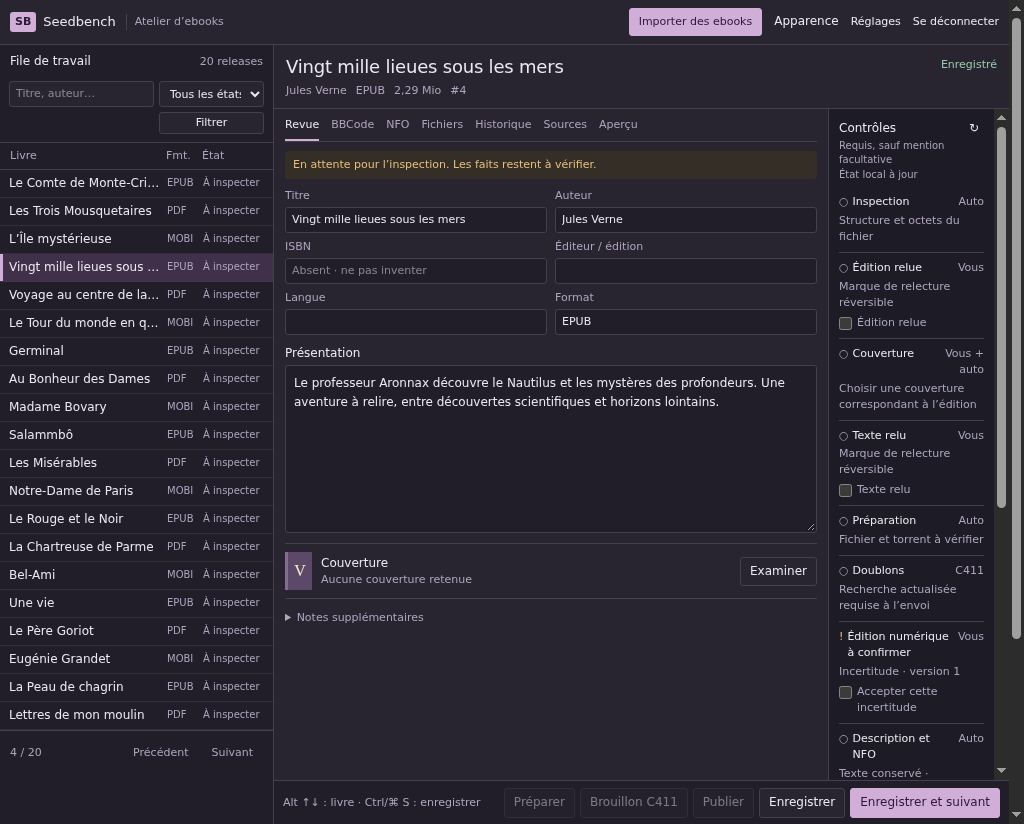
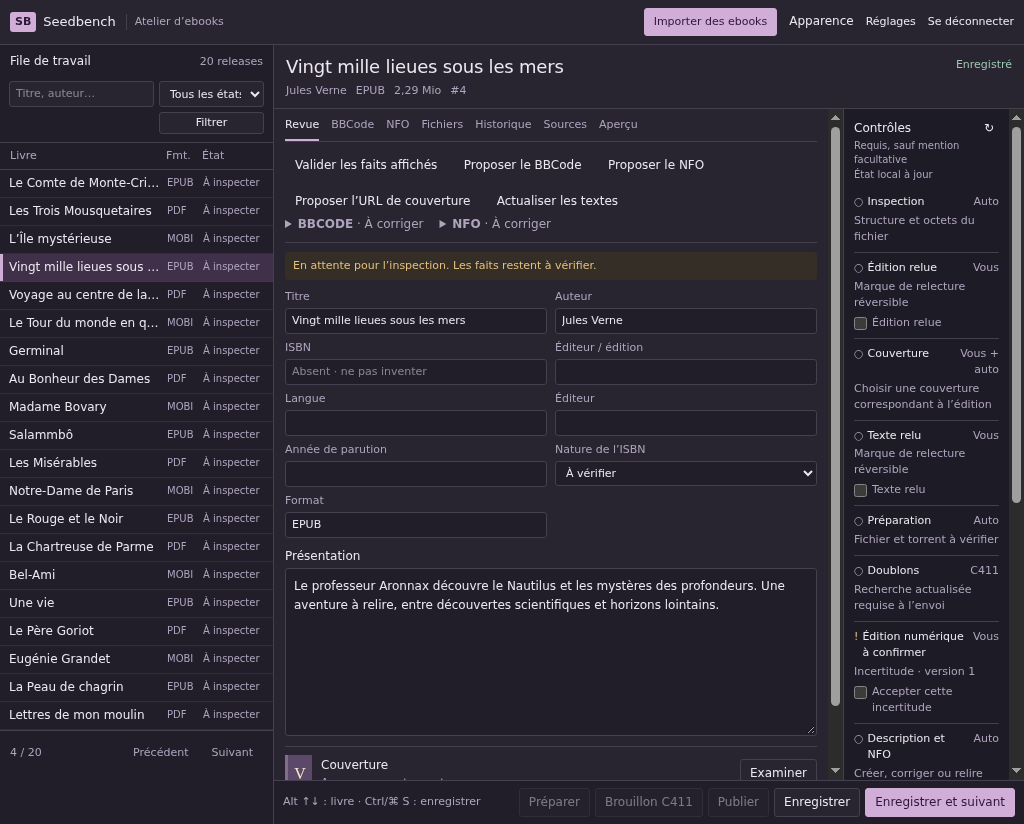
test: verify ebook content review and persistence

diff --git a/app/assets/stylesheets/application.css b/app/assets/stylesheets/application.css
@@ -217,3 +217,12 @@ button:focus-visible, a:focus-visible, input:focus-visible, select:focus-visible
 .content-comparison { display: grid; grid-template-columns: repeat(2, minmax(0, 1fr)); gap: .75rem; }
 .content-comparison pre { padding: .5rem; background: var(--inset); max-height: 24rem; overflow: auto; white-space: pre-wrap; overflow-wrap: anywhere; font: 11px/1.5 ui-monospace, monospace; }
 @media (max-width: 650px) { .content-comparison { grid-template-columns: 1fr; } }
+
+@media (min-width: 801px) {
+  body:has(#workbench) { height: 100dvh; display: flex; flex-direction: column; overflow: hidden; }
+  #workbench { flex: 1; min-height: 0; }
+  .work-layout { height: 100%; min-height: 0; }
+  .work-main, .release-workspace, .editor-area, .work-queue { min-height: 0; }
+  .editor-area, .work-queue { overflow-y: auto; }
+  .release-checklist { max-height: none; min-height: 0; }
+}

diff --git a/app/services/content/validation.rb b/app/services/content/validation.rb
@@ -3,6 +3,7 @@ require 'cgi'
 module Content
   class Validation
     Policy = Providers::C411::EbookContent
+    NFO_OPTIONAL = %w[publisher publication_year digital_isbn print_isbn edition pages documents release_name].freeze
     NFO_LABELS = %w[title author format language files size].freeze
 
     def self.call(bbcode:, nfo:, expected: {}, cover_url: nil)
@@ -47,16 +48,30 @@ module Content
     def validate_nfo
       return [ issue('nfo_size') ] if @nfo.bytesize > 3_000_000
 
-      NFO_LABELS.filter_map { |field| issue('nfo_field', field) unless valid_nfo_field?(field) }
+      fields = NFO_LABELS + NFO_OPTIONAL.select { |field| nfo_lines(field).any? || (%w[pages documents].include?(field) && @expected[field].present?) }
+      fields.filter_map { |field| issue('nfo_field', field) unless valid_nfo_field?(field) }
     end
 
     def valid_nfo_field?(field)
-      label = I18n.t("content.nfo.#{field}")
-      lines = @nfo.lines.grep(/\A#{Regexp.escape(label)} : /)
+      lines = nfo_lines(field)
       expected = @expected[field]
-      return false unless lines.one? && !lines.first.strip.in?([ "#{label} :", "#{label} : #{I18n.t('content.unknown')}" ])
+      return false unless expected_available?(field, expected) && nfo_value?(lines)
 
-      !expected || lines.first.strip == "#{label} : #{expected}"
+      !expected || lines.first == expected.to_s.gsub(/[\r\n]+/, ' ')
+    end
+
+    def expected_available?(field, expected)
+      NFO_LABELS.include?(field) || (expected.present? && expected != I18n.t('content.unknown'))
+    end
+
+    def nfo_value?(lines)
+      lines.one? && lines.first.present? && lines.first != I18n.t('content.unknown')
+    end
+
+    def nfo_lines(field)
+      labels = [ I18n.t("content.nfo.#{field}") ] + Array(I18n.t("content.nfo_aliases.#{field}", default: []))
+      pattern = /\A(?:#{Regexp.union(labels)}) : (.*)\z/
+      @nfo.lines.filter_map { |line| pattern.match(line.strip)&.captures&.first }
     end
 
     def issue(code, field = nil)

diff --git a/script/quality/runtime_content.rb b/script/quality/runtime_content.rb
@@ -1,0 +1,21 @@
+require 'digest'
+
+module RuntimeContent
+  def self.prepare(release)
+    release.reload
+    proposal = Content::Propose.call(release_id: release.id, expected_revision: release.input_revision, kind: 'bbcode')
+    path = Rails.application.config.x.storage.fetch(:scratch).join('runtime-content-proposal.json')
+    path.write(JSON.generate(id: proposal.id, sha256: Digest::SHA256.hexdigest(proposal.bodies.fetch('bbcode'))))
+  end
+
+  def self.verify(release)
+    path = Rails.application.config.x.storage.fetch(:scratch).join('runtime-content-proposal.json')
+    saved = JSON.parse(path.read)
+    proposal = release.content_proposals.find(saved.fetch('id'))
+    abort 'Content proposal changed across recreation' unless Digest::SHA256.hexdigest(proposal.bodies.fetch('bbcode')) == saved.fetch('sha256')
+    current = release.content_revisions.where(kind: 'bbcode').order(:number).last
+    abort 'An unaccepted proposal replaced human text' unless current.body == 'Preserved human content' && current.id == proposal.bases.fetch('bbcode')
+    abort 'Proposal lost its policy provenance' unless proposal.dependencies.dig('bbcode', 'policy_version') == Providers::C411::EbookContent::VERSION
+    puts 'Unaccepted content proposal, dependency provenance and full human text survived container recreation.'
+  end
+end

diff --git a/app/services/content/generate.rb b/app/services/content/generate.rb
@@ -15,11 +15,17 @@ module Content
     def call
       bodies = { 'bbcode' => Policy.assemble(values: description_values), 'nfo' => nfo }
       dependencies = bodies.keys.index_with { |kind| Dependencies.call(inputs: @inputs, values: @values, kind: kind) }
-      issues = Validation.call(bbcode: bodies['bbcode'], nfo: bodies['nfo'], expected: @values, cover_url: @inputs.hosting&.direct_url)
-      Draft.new(bodies: bodies, dependencies: dependencies, expected: @values, issues: issues + input_issues)
+      issues = Validation.call(bbcode: bodies['bbcode'], nfo: bodies['nfo'], expected: expected, cover_url: @inputs.hosting&.direct_url)
+      Draft.new(bodies: bodies, dependencies: dependencies, expected: expected, issues: issues + input_issues)
     end
 
     private
+
+    def expected
+      @values.merge('pages' => @inputs.structure['page_count'], 'documents' => @inputs.structure['spine_documents'],
+        'print_isbn' => @inputs.fact('isbn_kind') == 'print' ? @inputs.fact('isbn') : nil,
+        'release_name' => @inputs.prepared? ? @inputs.preparation.release_name : nil)
+    end
 
     def description_values
       @values.transform_values { |value| Policy.escape(value) }.merge('cover' => @inputs.hosting&.direct_url.to_s)

diff --git a/spec/services/content/validation_spec.rb b/spec/services/content/validation_spec.rb
@@ -32,4 +32,20 @@ RSpec.describe Content::Validation do
     expect(errors(bbcode: body.sub('Value presentation', '<script>alert(1)</script>'))).to include('unsafe_html')
     expect(errors(bbcode: body.sub('https://images.invalid/cover.png', 'https://other.invalid/cover.png'))).to include('cover')
   end
+
+  it 'rejects fabricated page counts and altered optional edition facts' do
+    expect(errors(nfo_body: nfo + "\nPages du PDF : 999")).to include('nfo_field')
+    expect(errors(nfo_body: nfo + "\nÉditeur : Wrong publisher")).to include('nfo_field')
+  end
+
+  it 'allows full manual presentation edits while preserving factual checks' do
+    expect(errors(bbcode: body.sub('Value presentation', 'Prose rédigée directement dans le BBCode.'))).to be_empty
+  end
+
+  it 'accepts the documented English NFO labels without weakening factual checks' do
+    english = nfo.sub('Titre :', 'Title :').sub('Auteur(s) :', 'Author / illustrator :').sub('Langue :', 'Language :')
+      .sub('Fichier(s) :', 'Content files :').sub('Taille :', 'Payload size :')
+    expect(errors(nfo_body: english)).to be_empty
+    expect(errors(nfo_body: english.sub('EPUB', 'PDF'))).to include('nfo_field')
+  end
 end

diff --git a/spec/models/content_proposal_spec.rb b/spec/models/content_proposal_spec.rb
@@ -1,0 +1,24 @@
+require 'rails_helper'
+
+RSpec.describe ContentProposal do
+  let(:release) { reviewed_content_release }
+  let(:proposal) { Content::Propose.call(release_id: release.id, expected_revision: release.input_revision, kind: 'bbcode') }
+
+  it 'retains immutable proposal bodies and dependency provenance' do
+    record = proposal
+    expect { record.bodies = {} }.to raise_error(ActiveRecord::ReadonlyAttributeError)
+    expect(record.reload.dependencies['bbcode']).to include('payload_revision_id' => release.payload_revisions.sole.id)
+  end
+
+  %w[UPDATE DELETE REPLACE].each do |action|
+    it "blocks direct #{action} of stored proposal history" do
+      record = proposal
+      sql = case action
+      when 'UPDATE' then "UPDATE content_proposals SET kind = 'cover' WHERE id = #{record.id}"
+      when 'DELETE' then "DELETE FROM content_proposals WHERE id = #{record.id}"
+      else "INSERT OR REPLACE INTO content_proposals SELECT * FROM content_proposals WHERE id = #{record.id}"
+      end
+      expect { ApplicationRecord.connection.execute(sql) }.to raise_error(ActiveRecord::StatementInvalid, /append-only/)
+    end
+  end
+end

diff --git a/spec/services/content/accept_spec.rb b/spec/services/content/accept_spec.rb
@@ -26,4 +26,12 @@ RSpec.describe Content::Accept do
     Releases::Save.call(release_id: release.id, expected_revision: release.input_revision, changes: { publisher: 'New publisher' })
     expect { described_class.call(release_id: release.id, proposal_id: proposal.id, expected_revision: release.reload.input_revision) }.to raise_error(described_class::StaleProposal)
   end
+
+  it 'accepts an NFO proposal after an unrelated manual BBCode edit' do
+    candidate = Content::Propose.call(release_id: release.id, expected_revision: release.input_revision, kind: 'nfo')
+    Releases::Save.call(release_id: release.id, expected_revision: release.input_revision, changes: { bbcode: 'Prose manuelle indépendante' })
+    described_class.call(release_id: release.id, proposal_id: candidate.id, expected_revision: release.reload.input_revision)
+    expect(release.content_revisions.where(kind: 'bbcode').last.body).to eq('Prose manuelle indépendante')
+    expect(release.content_revisions.where(kind: 'nfo').last.body).to eq(candidate.bodies['nfo'])
+  end
 end

diff --git a/spec/services/content/render_spec.rb b/spec/services/content/render_spec.rb
@@ -25,4 +25,20 @@ RSpec.describe Content::Render do
     expect(document.text).to include('[b]literal')
     expect(document.css('strong')).to be_empty
   end
+
+  it 'bounds deeply nested or oversized markup without changing its source' do
+    source = ('[b]' * 1000) + 'content' + ('[/b]' * 1000)
+    result = described_class.call(source: source)
+    expect(result.errors).to include('markup_limit')
+    expect(source).to start_with('[b]' * 1000)
+    expect(described_class.call(source: 'x' * 250_001).errors).to include('markup_limit')
+  end
+
+  it 'rejects unsafe style attributes and keeps passive tags safe' do
+    html = described_class.call(source: '[color=url(javascript:bad)]text[/color][spoiler=Lire]secret[/spoiler][size=12]taille[/size][hr]').html
+    document = Nokogiri::HTML5.fragment(html)
+    expect(document.css('[style]').pluck('style').join).not_to include('javascript', 'url(')
+    expect(document.at_css('details summary').text).to eq('Lire')
+    expect(document.at_css('hr')).to be_present
+  end
 end

diff --git a/script/quality/check_runtime.rb b/script/quality/check_runtime.rb
@@ -3,6 +3,7 @@ ARGV.replace([ 'verify' ])
 require_relative 'runtime_workflows'
 require_relative 'runtime_access'
 require_relative 'runtime_workbench'
+require_relative 'runtime_content'
 require_relative 'runtime_ebooks'
 
 record = RuntimeWorkflows.release
@@ -11,6 +12,7 @@ path = Rails.application.config.x.storage.fetch(:payload).join(payload.locator)
 abort 'Payload changed across recreation' unless Digest::SHA256.file(path).hexdigest == payload.sha256 && path.size == payload.size_bytes
 abort 'Provider assignment state changed' unless record.provider_assignments.count == 4 && record.provider_assignments.pluck(:provider_connection_id).all?(&:nil?)
 RuntimeWorkbench.verify(record)
+RuntimeContent.verify(record)
 RuntimeAccess.verify
 RuntimeEbooks.verify
 puts 'Release revisions, human content, history, provider assignments, payload and workflow state survived recreation.'

diff --git a/script/quality/prepare_runtime.rb b/script/quality/prepare_runtime.rb
@@ -2,6 +2,7 @@ require 'digest'
 require 'net/http'
 require_relative 'runtime_access'
 require_relative 'runtime_workbench'
+require_relative 'runtime_content'
 require_relative 'runtime_uploads'
 require_relative 'runtime_ebooks'
 
@@ -30,6 +31,7 @@ release = Releases::Create.call(title: 'Synthetic runtime book', author: 'Test a
 PayloadRevision.create!(release: release, number: 1, original_filename: 'synthetic.epub', format: 'epub',
   size_bytes: destination.size, sha256: Digest::SHA256.file(destination).hexdigest, locator: destination.basename.to_s)
 RuntimeWorkbench.prepare(release)
+RuntimeContent.prepare(release)
 Rails.application.config.x.storage.fetch(:scratch).join('runtime-release-id').write(release.id.to_s)
 begin
   ApplicationRecord.connection.execute("UPDATE release_events SET name = 'changed'")

diff --git a/spec/services/content/cover_patch_spec.rb b/spec/services/content/cover_patch_spec.rb
@@ -6,6 +6,7 @@ RSpec.describe Content::CoverPatch do
   it 'changes only the cover URL after explicit acceptance of the patch' do
     draft = Content::Generate.call(release: release)
     body = draft.bodies['bbcode'].sub('https://images.invalid/synthetic.png', 'https://old.invalid/cover.png').sub('Présentation originale de test.', 'Prose humaine à conserver.\n[quote]Texte relu[/quote]')
+    body = body.sub('Aucune.', 'Conserver https://old.invalid/cover.png dans ces notes.')
     Releases::Save.call(release_id: release.id, expected_revision: release.input_revision, changes: { bbcode: body })
     proposal = described_class.call(release_id: release.id, expected_revision: release.reload.input_revision)
     expect(release.content_revisions.where(kind: 'bbcode').last.body).to eq(body)

diff --git a/app/queries/releases/editor_values.rb b/app/queries/releases/editor_values.rb
@@ -9,11 +9,15 @@ module Releases
         metadata = METADATA.index_with { |field| release.public_send(field).to_s }
         facts = latest(release.reviewed_facts, :field).pluck(:field, :value).to_h
         content = latest(release.content_revisions, :kind).pluck(:kind, :body).to_h
-        metadata.merge(FACTS.index_with { |field| facts[field].to_s })
+        metadata.merge(fact_values(facts))
           .merge(CONTENT.index_with { |kind| content[kind].to_s })
       end
 
       private
+
+      def fact_values(facts)
+        FACTS.index_with { |field| field == 'isbn_kind' ? facts[field].presence || 'unknown' : facts[field].to_s }
+      end
 
       def latest(relation, group)
         relation.where(id: relation.select('MAX(id)').group(group))
